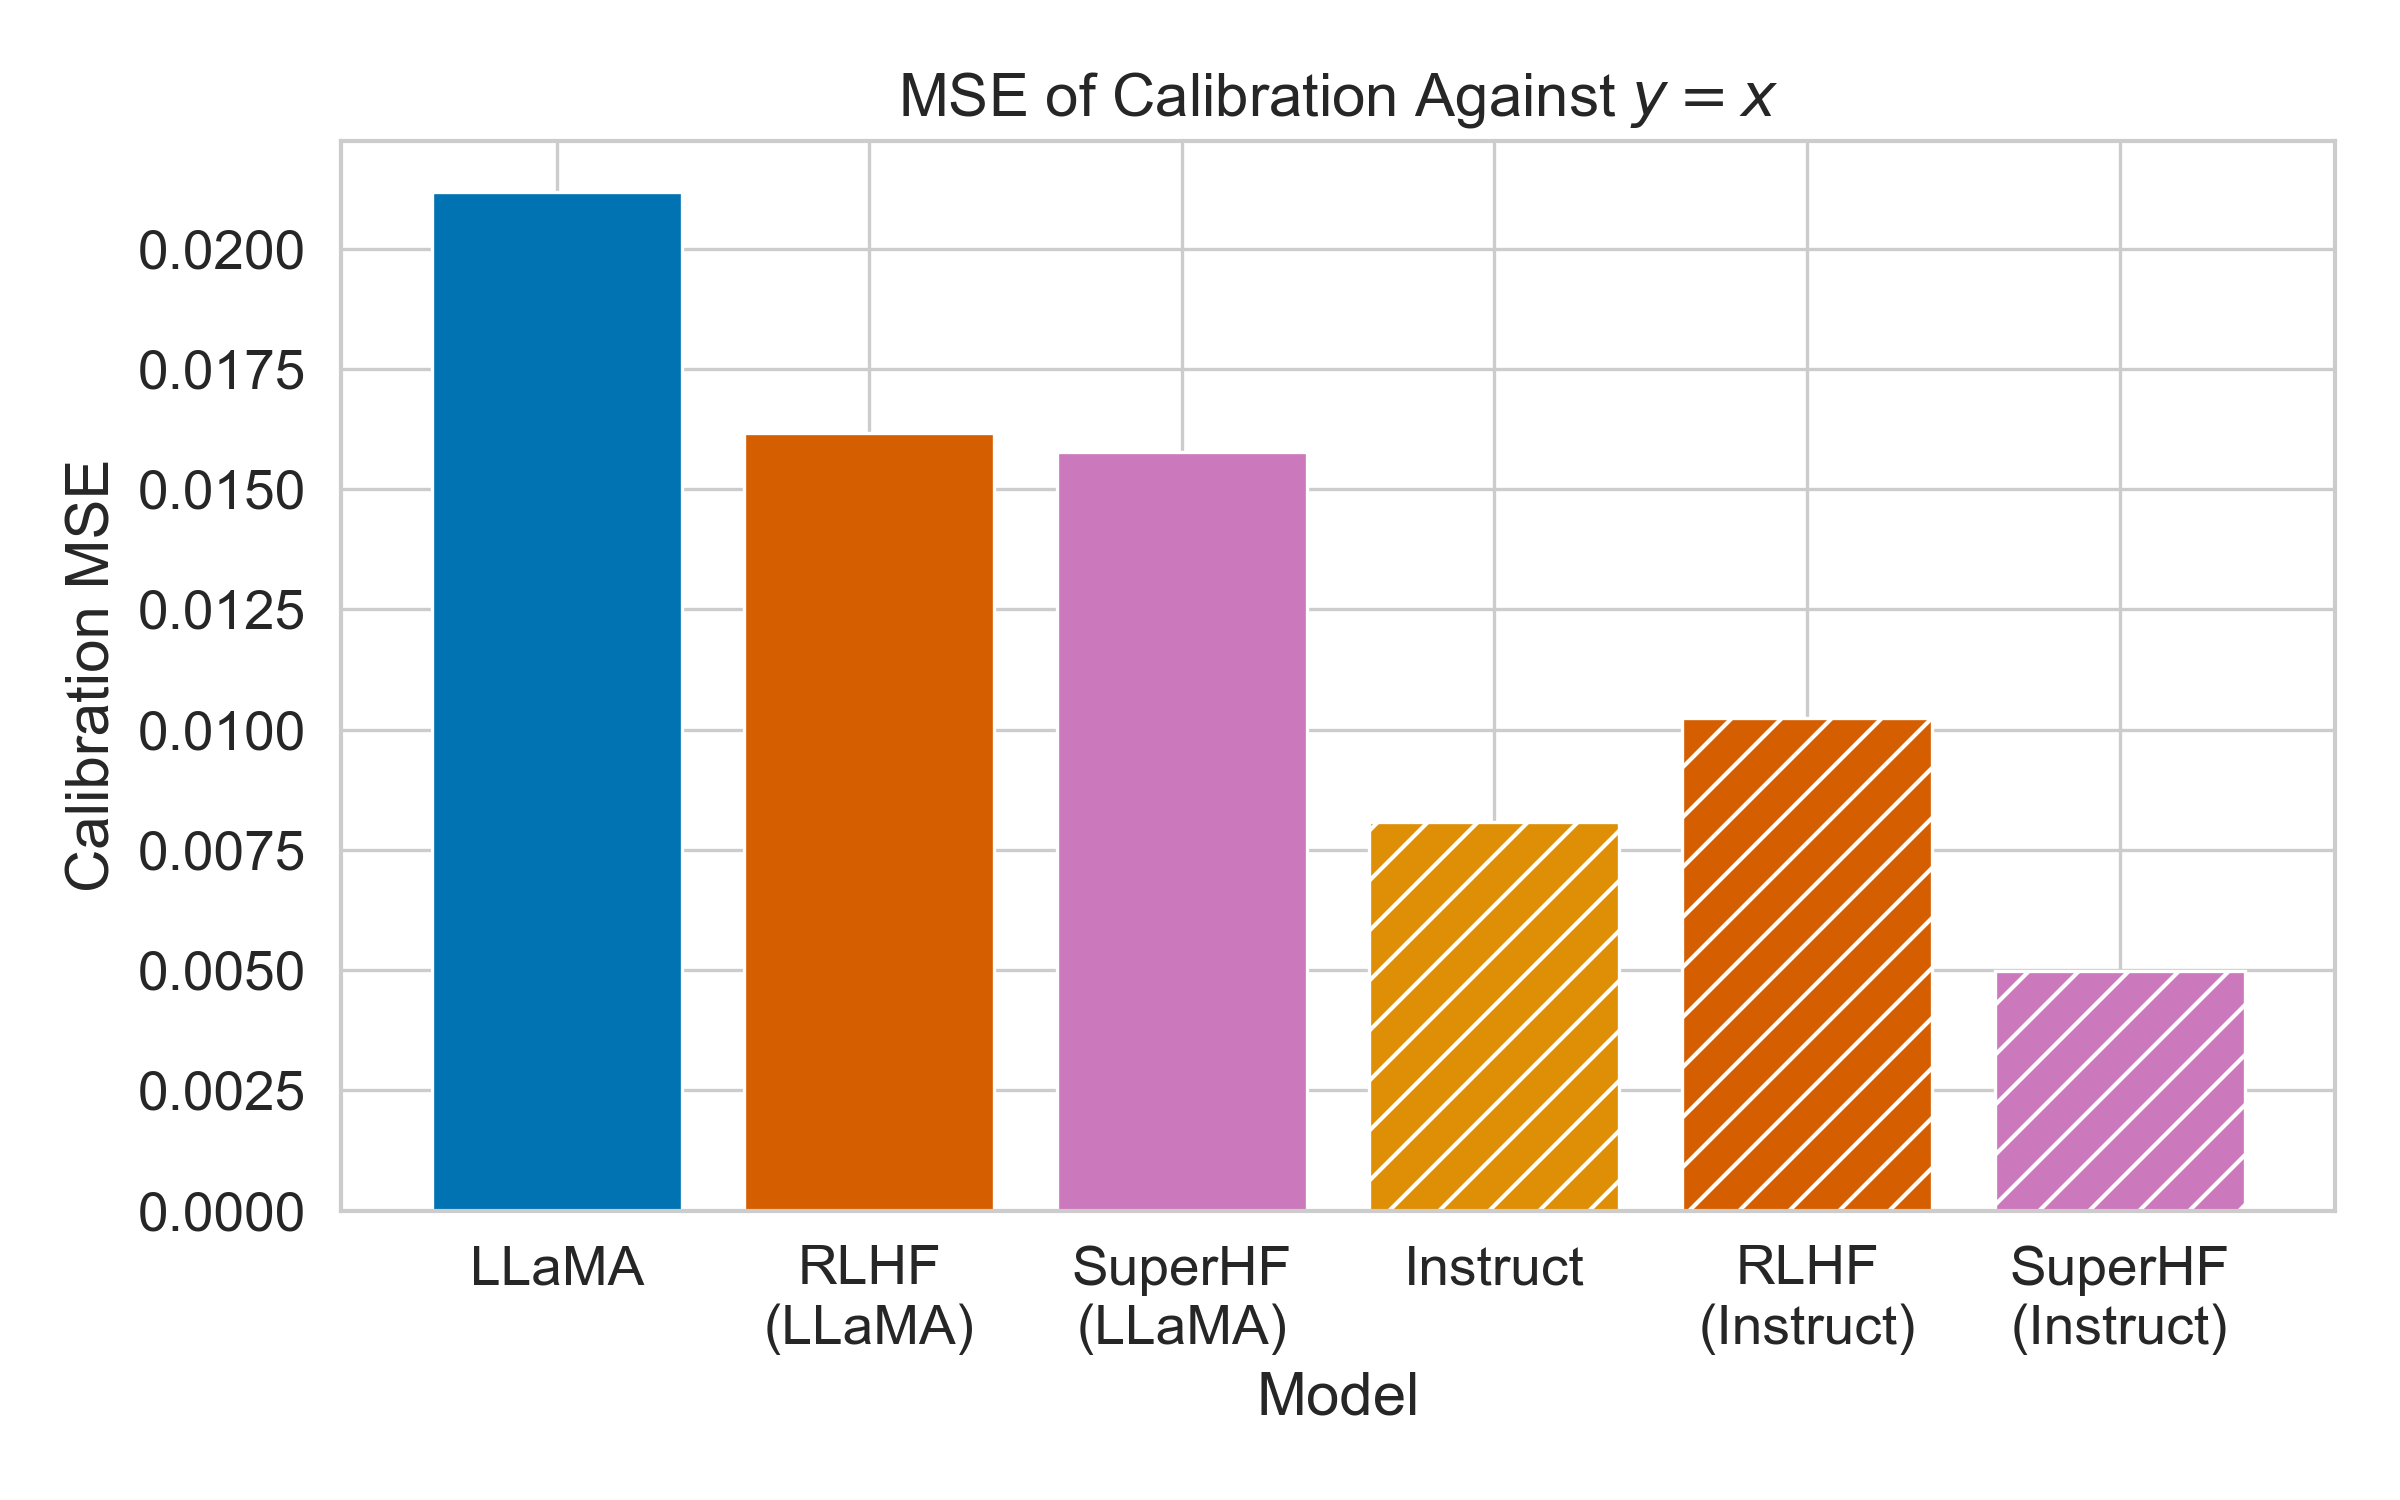
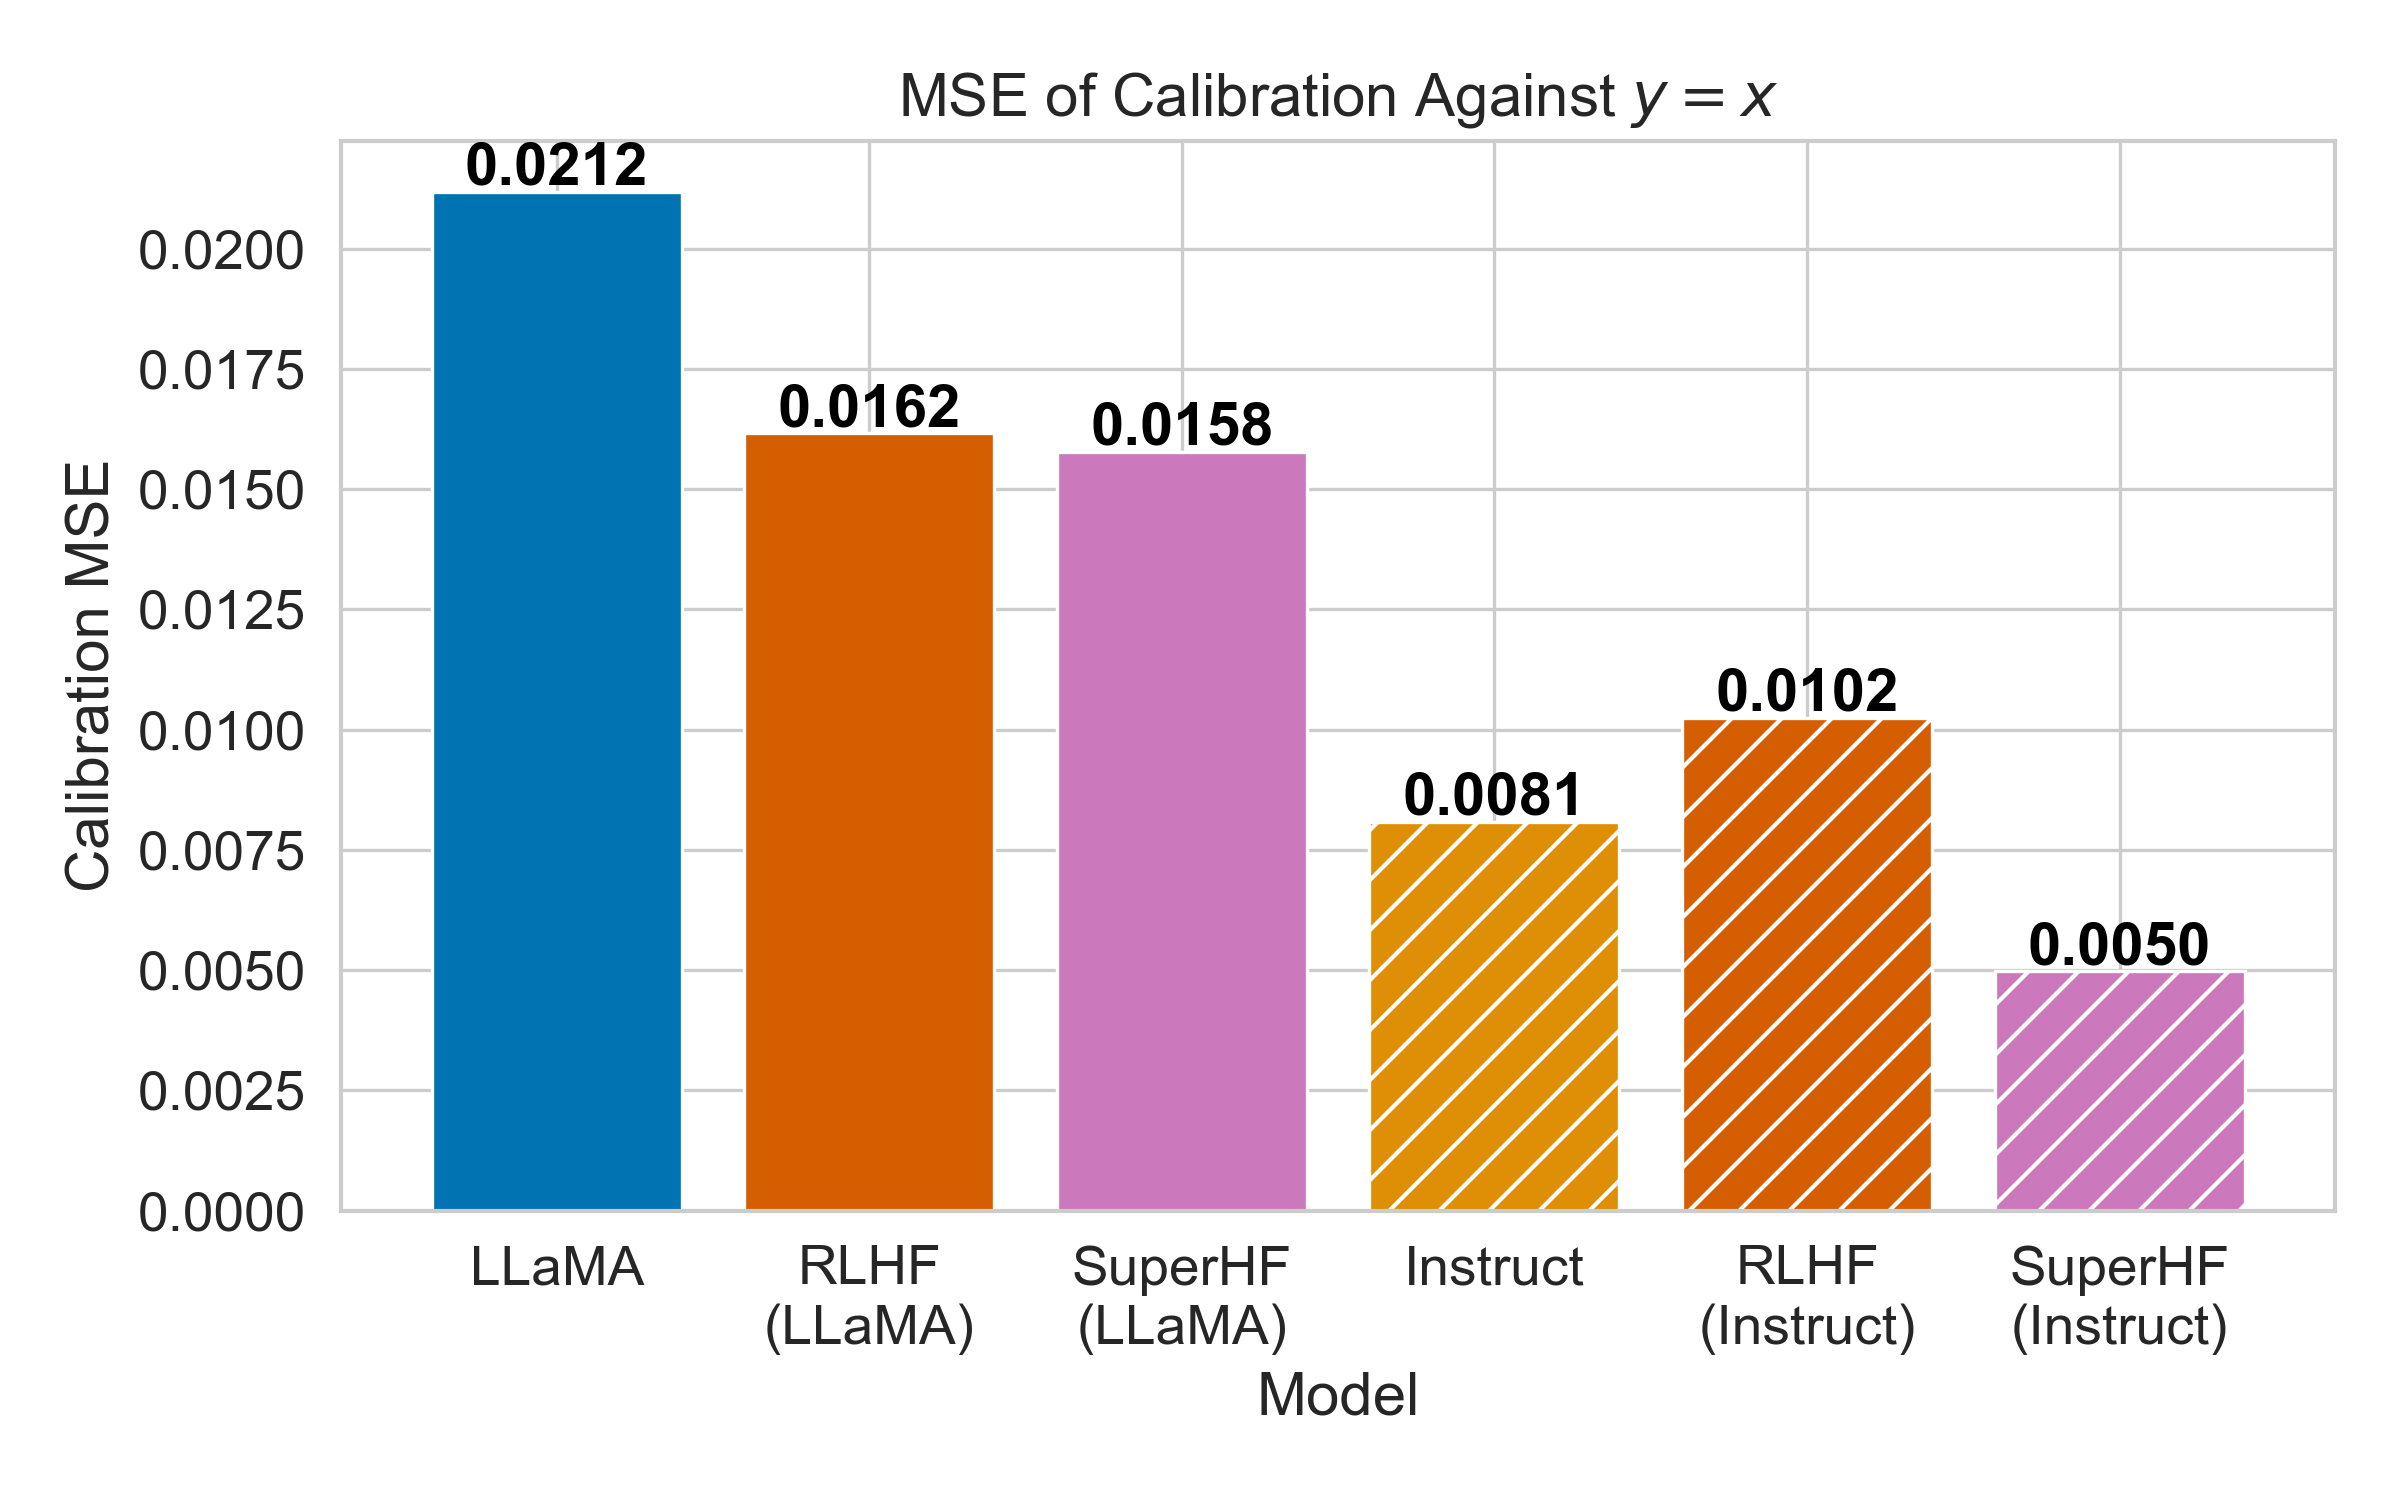
Improve MSE printing

diff --git a/test_calibration.py b/test_calibration.py
@@ -130,7 +130,7 @@ if __name__ == "__main__":
 
         ax = fig.add_subplot(rows, cols, positions[k])
         ax.bar(bins, accuracies, width=0.1, edgecolor="black", label=f"{LABELS[k]}", color=palette[COLORS[k]], hatch=HATCHES[k])
-        ax.text(0.25, 0.65, f'MSE:{mse:.3f}', fontsize=14, fontweight='semibold', color='black', horizontalalignment='center')
+        ax.text(0.2, 0.65, f'MSE:{mse:.4f}', fontsize=14, fontweight='semibold', color='black', horizontalalignment='center')
 
 
         x_func = np.linspace(0, 1, 1000)
@@ -156,6 +156,9 @@ if __name__ == "__main__":
     plt.title("MSE of Calibration Against $y=x$")
     plt.xlabel("Model")
     plt.ylabel("Calibration MSE")
+    # Add labels above each bar
+    for i, v in enumerate(mses):
+        plt.text(i, v + 0.00015, f"{v:.4f}", color='black', ha='center', fontweight='bold')
     plt.gcf().set_size_inches(8, 5)
     plt.tight_layout()
     plt.savefig(f"{base_dir}/mse_chart", dpi=300)
